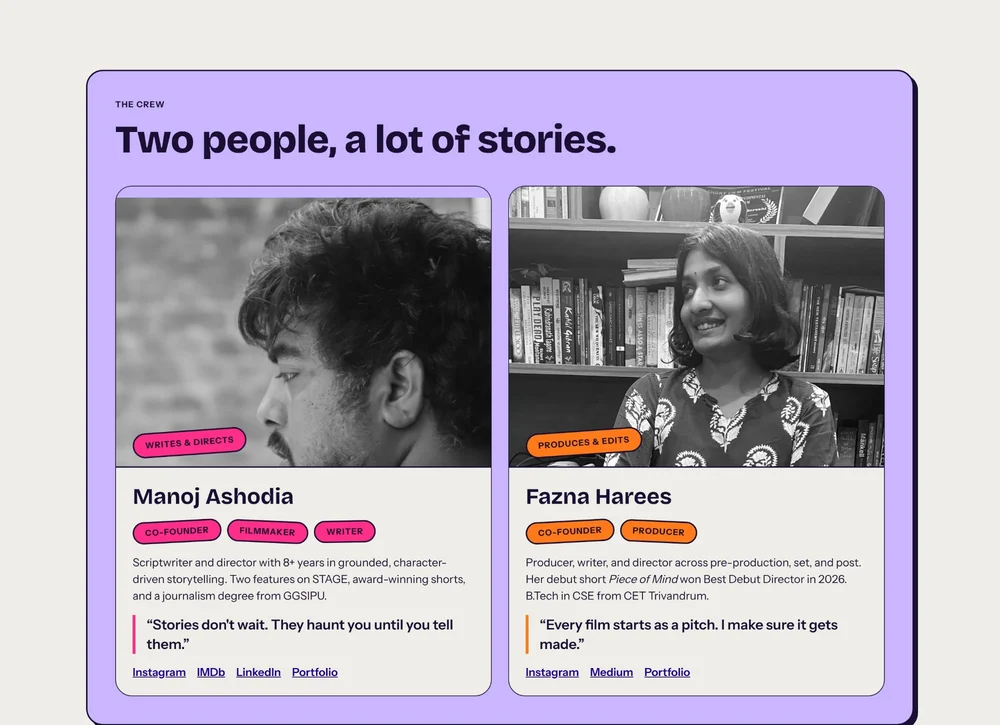
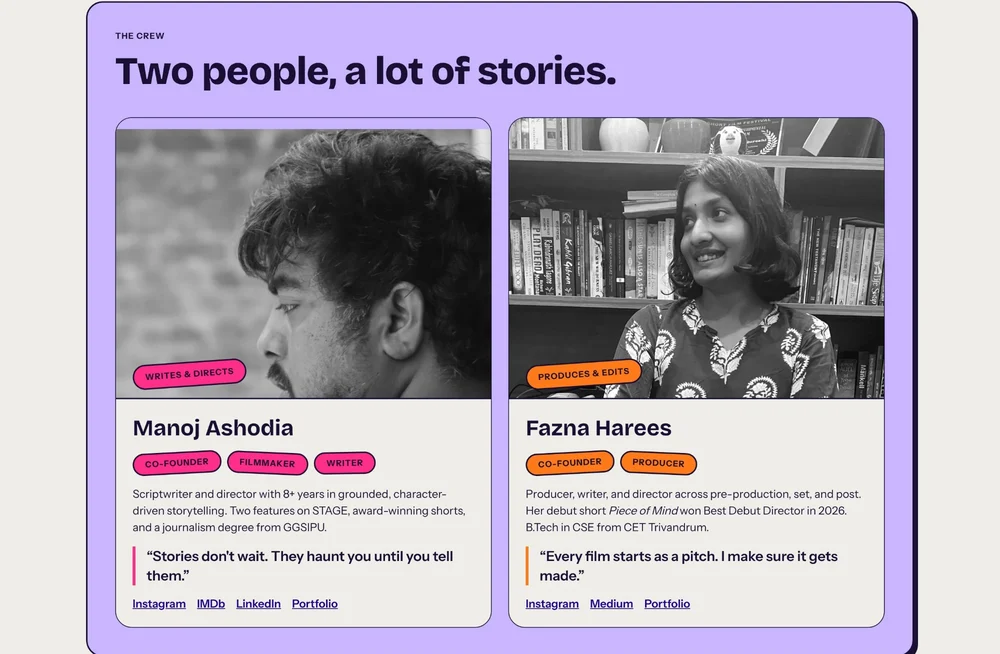
nilabery: crop My turn team screenshot to the card and match heights
Claude-Session: https://claude.ai/code/session_01CWBhB2afCXg1xY56Z8eLAr

diff --git a/nilabery.html b/nilabery.html
@@ -384,7 +384,7 @@
           <p>Kept the two-card layout consistent while making roles easier to scan and the section more visually expressive.</p>
         </div>
         <figure class="nb-ba-shot">
-          <img src="assets/nilabery/team-after.webp" width="1000" height="725" alt="My crew section on lavender: the same two cards, with roles as coloured pills and a quote for each person" loading="lazy" />
+          <img src="assets/nilabery/team-after.webp" width="1000" height="654" alt="My crew section on lavender: the same two cards, with roles as coloured pills and a quote for each person" loading="lazy" />
         </figure>
       </div>
     </section>
